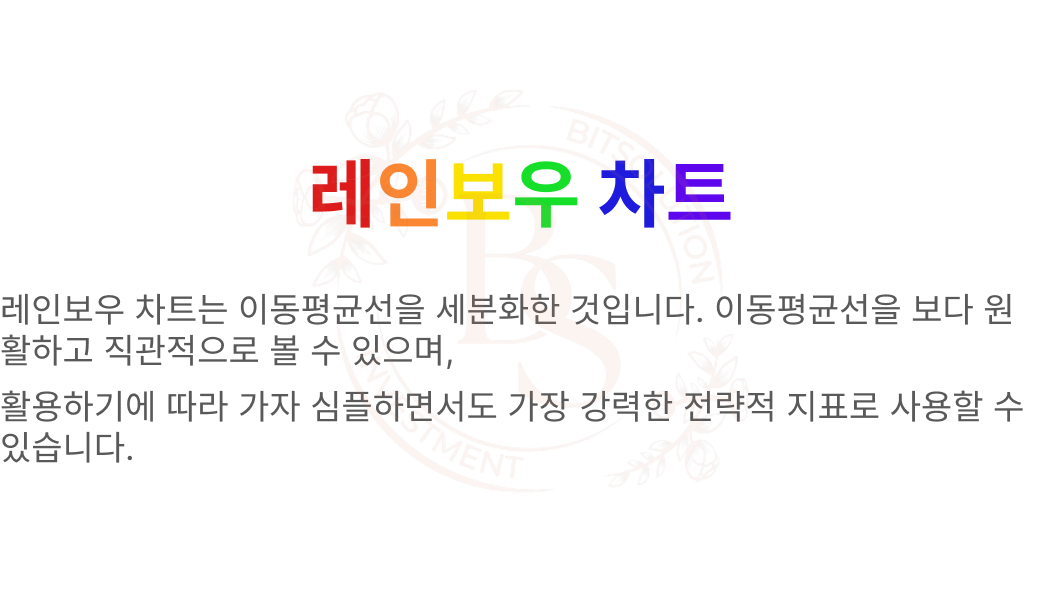
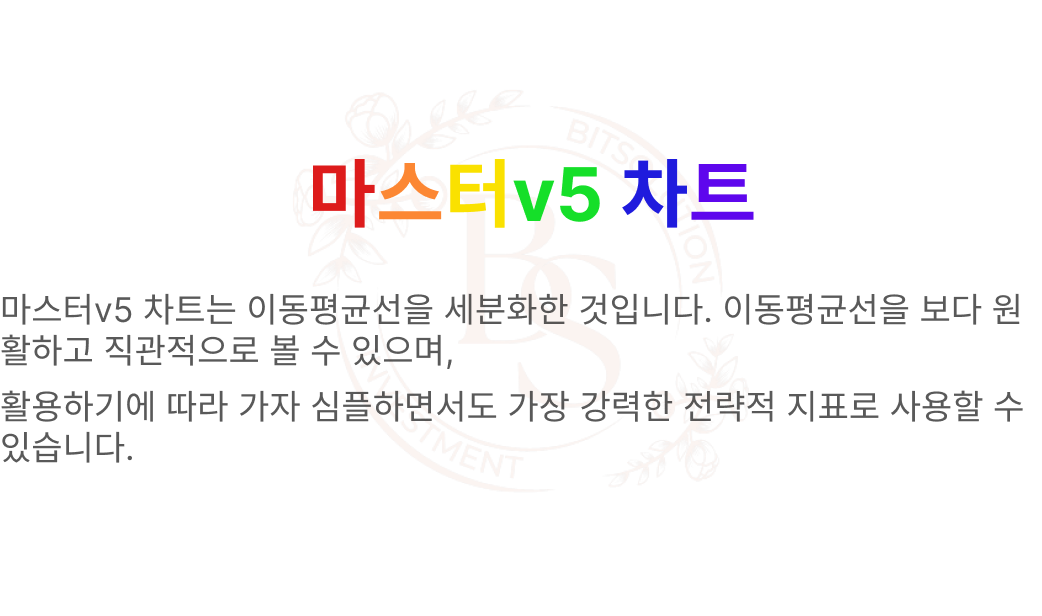
rainbow v1.2

Changed region(s): [[0.0, 0.4627, 0.9827, 0.5244], [0.2764, 0.2468, 0.737, 0.3701]]

diff --git a/style.css b/style.css
@@ -115,7 +115,7 @@ button:hover {
 #visual {
   width: 100%;
   height: 700px;
-  background-image: url('./img/stock.png');
+  background-image: url('./img/visual.png');
   background-position: center;
   background-repeat: no-repeat;
   background-size: cover;

diff --git a/index.html b/index.html
@@ -17,7 +17,7 @@
     </div>
     <ul class="nav-nav">
       <a href="#rainbow" />
-      <li>레인보우차트</li>
+      <li>마스터v5</li>
       </a>
       <a href="#price">
         <li>상품가격</li>
